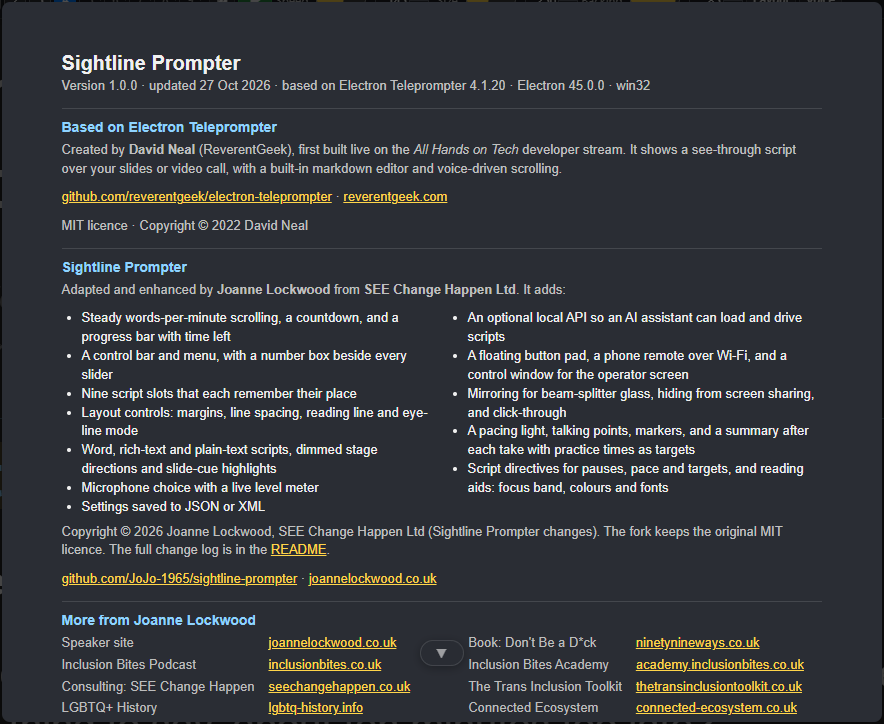
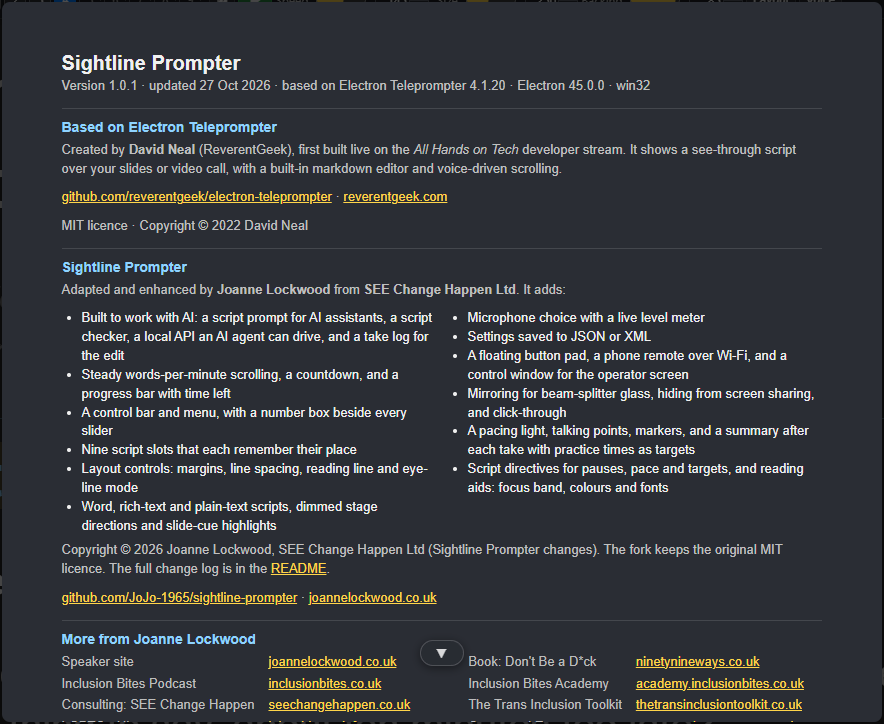
Lead with the AI workflow: Working with AI guide page, readme, feature list, About
Sightline is positioned for content creators and L&D teams recording at a desk
or in a studio: AI writes the script and its directions, can run the prompter
through the local API, and gets the take log for the edit. Roadmap 26, 35 and
36 are described as coming next, not as built.

Claude-Session: https://claude.ai/code/session_01RExBhv5sG83zRt8AwjwG1H

Changed region(s): [[0.0611, 0.4254, 0.8857, 1.0], [0.5192, 0.8812, 0.9163, 1.0], [0.5192, 0.4254, 0.9163, 0.4862]]

diff --git a/src/client/teleprompter.html b/src/client/teleprompter.html
@@ -358,6 +358,10 @@
       </p>
       <ul>
         <li>
+          Built to work with AI: a script prompt for AI assistants, a script
+          checker, a local API an AI agent can drive, and a take log for the edit
+        </li>
+        <li>
           Steady words-per-minute scrolling, a countdown, and a progress bar
           with time left
         </li>
@@ -372,9 +376,6 @@
         </li>
         <li>Microphone choice with a live level meter</li>
         <li>Settings saved to JSON or XML</li>
-        <li>
-          An optional local API so an AI assistant can load and drive scripts
-        </li>
         <li>A floating button pad, a phone remote over Wi-Fi, and a control window for the operator screen</li>
         <li>Mirroring for beam-splitter glass, hiding from screen sharing, and click-through</li>
         <li>A pacing light, talking points, markers, and a summary after each take with practice times as targets</li>

diff --git a/readme.md b/readme.md
@@ -1,29 +1,77 @@
 # Sightline Prompter
 
-A see-through desktop teleprompter for recording to camera, built with [Electron.js](https://www.electronjs.org/).
+**The teleprompter that works with your AI.** A free, open-source, see-through
+desktop teleprompter for content creators and learning and development teams
+who record to camera at a desk or in a studio. Your AI assistant writes the
+script and its directions, Sightline follows your voice through the take, and
+the take log goes back to your AI for the edit. Speech recognition runs on
+your own computer. Windows, macOS and Linux.
+
+**[Download the latest release](https://github.com/JoJo-1965/sightline-prompter/releases/latest)** · [User guide](docs/guide/README.md) · [Working with AI](docs/guide/09-working-with-ai.md) · [Everything it adds](docs/FEATURES.md) · [joannelockwood.co.uk/sightline](https://joannelockwood.co.uk/sightline)
 
 > **About Sightline Prompter.** This is a fork of
 > [reverentgeek/electron-teleprompter](https://github.com/reverentgeek/electron-teleprompter),
 > created by [David Neal](https://reverentgeek.com) and released under the MIT
 > licence. Adapted and enhanced by Joanne Lockwood from SEE Change Happen Ltd.
-> It adds steady words-per-minute scrolling, script
-> slots, a control bar and menu, layout controls, Word and rich-text scripts,
-> settings files and an optional local API for AI assistants. Everything from
-> the original still works. See the [change log](#change-log) for the details,
-> and **Help > About** in the app for credits.
+> Everything from the original still works. See the [change log](#change-log)
+> for the details, and **Help > About** in the app for credits.
+
+## Built around AI
+
+| Step       | What your AI does                                                         | What Sightline does                                                                                        |
+| ---------- | ------------------------------------------------------------------------- | ---------------------------------------------------------------------------------------------------------- |
+| **Write**  | Writes the script, with sections, target times, stops and countdowns      | **Help > Copy the AI Script Prompt** gives it the instructions, and a checker validates the result         |
+| **Record** | Loads the script and runs the prompter through a local API, if you let it | Follows your voice, holds at every `{stop}`, counts down every `{pause: 3s}`, takes "Prompter, …" commands |
+| **Edit**   | Reads the take log and chooses the takes                                  | Logs every take of every section, with retakes, markers and your keeper or scrap rating, as JSON and CSV   |
+
+- **Scripts that direct the prompter.** The [AI Script Prompt](docs/AI-SCRIPT-BRIEF.md)
+  works with ChatGPT, Claude, Gemini or Copilot. The script that comes back has
+  `## sections`, `{target: 1:20}` pacing, `{stop}` before a demo, `{pause: 3s}`
+  for a breath, `{marker}` for the edit and `[notes to you]`, all
+  [documented](docs/SCRIPT-DIRECTIVES.md). Draft in Google Docs, Word or PDF
+  and open it as it is.
+- **An AI that can run the prompter.** Switch on the local API (Settings >
+  Remotes) and an agent on your computer, such as Claude Code, can write a
+  script into a slot, start, pause, jump sections, change speed, drop markers
+  and rate takes. It's off by default, token-protected and closed to web
+  pages.
+- **A take log made for an editing agent.** Each take's start and end, whether
+  it was read through or retaken, its markers and rating, and the take to use
+  for each section.
+- **Private by design.** Voice recognition runs offline on your own computer,
+  so nothing you say is sent anywhere.
+
+The whole workflow is in the guide: [Working with AI](docs/guide/09-working-with-ai.md).
+
+**Coming next** ([roadmap](ROADMAP.md)): word-level timing and an "edit pack"
+an editing agent can assemble a video from; `{listen: off}` and `{prompter: …}`
+so the script can direct the microphone and the prompter; and a recordings
+library that an agent can list and fetch from.
 
 ## Features
 
-- Translucent overlay — see through the script to your presentation or video call
-- Built-in markdown editor with syntax highlighting
-- Voice-driven auto-scroll — speak your script and the prompter follows you. Recognition runs on your own computer (free, offline, private), or online with [Deepgram](https://deepgram.com/) if you prefer
-- Live reload — script automatically reloads when the file is modified externally
-- Adjustable background opacity
-- Font size is persisted across sessions
-- Mirror/flip mode — for physical teleprompter setups with beam splitters
-- Recently opened files — File > Open Recent submenu
-- Auto-loads last opened file on startup
-- Window position and size are persisted across sessions
+- **Follows your voice**, with speech recognition on your own computer (free
+  and offline), or [Deepgram](https://deepgram.com/) if you prefer. The
+  sentence you're about to say is highlighted
+- **"Prompter, …" voice commands:** pause, go, slower, again (for a retake),
+  keeper, scrap that, marker, resync and more
+- **Or a steady pace** in words per minute, with section targets, a pacing
+  light, a take summary and a rehearsal timer
+- **Stops and countdowns** written into the script, and a **take log** for the
+  edit
+- Opens **Markdown, Word, rich text, plain text, PDF and Google Docs links**,
+  with a built-in editor and live reload
+- **Nine script slots**, a control bar and menu, six tabs of settings, a
+  floating button pad, a phone remote, a control window for a second screen,
+  clickers, pedals and game controllers
+- **For real rigs:** mirroring for beam-splitter glass, full screen on a
+  prompter monitor such as the Elgato Prompter, an eye-line mode, hiding from
+  screen sharing and click-through
+- **Reading aids:** a focus band, colour themes, and fonts including Atkinson
+  Hyperlegible and OpenDyslexic
+- A **user guide** with screenshots, built into the app
+
+The full list, side by side with the original, is in [FEATURES.md](docs/FEATURES.md).
 
 ## Usage
 
@@ -153,6 +201,7 @@ Planned features and their order are in [ROADMAP.md](ROADMAP.md).
 
 ### Next release
 
+- **Working with AI**, a new page in the user guide (Help > User Guide): how your AI writes the script and its directions, runs the prompter through the local API, and takes the take log for the edit. The readme, feature list and Help > About now lead with it
 - **Slate and sync mark** (Settings > Scrolling, "Slate at the start of each take"): before each take the screen flashes white and beeps, then shows the section and take number for a second. The take log records when each slate went off (the first is time 0), so every take can be lined up with the recording; no clap needed. It shows when you start scrolling, carry on from a `{stop}`, start voice scrolling, or say "Prompter, again". Choose flash and beep, flash only, or off (the default)
 - Two pauses on one line, such as a countdown and then a `{stop}`, now both count. Before, the second was skipped
 - A take that ends at a `{stop}` now ends where you stopped reading, not when you carried on

diff --git a/docs/FEATURES.md b/docs/FEATURES.md
@@ -8,14 +8,20 @@ mode, and scrolling that followed your voice through Deepgram. Thank you,
 David.
 
 Sightline keeps that heart and rebuilds almost everything around it into a
-full teleprompter for recording to camera, on Windows, macOS and Linux. This
-page lists what's new. The [change log](../readme.md#change-log) has the
+teleprompter that works with your AI, for content creators and learning and
+development teams recording to camera at a desk or in a studio, on Windows,
+macOS and Linux. Your AI writes the script and its directions, Sightline
+follows your voice through the take, and the take log goes back to your AI
+for the edit.
+
+This page lists what's new. The [change log](../readme.md#change-log) has the
 details, and the [user guide](guide/README.md) shows every screen.
 
 **At a glance**
 
 |                     | Electron Teleprompter 4.1.20                                                          | Sightline Prompter 1.0                                                                                                                                         |
 | ------------------- | ------------------------------------------------------------------------------------- | -------------------------------------------------------------------------------------------------------------------------------------------------------------- |
+| AI                  |                                                                                       | **AI writes the script and its directions, can run the prompter, and gets the take log for the edit**                                                                                         |
 | Scrolling           | Follows your voice (Deepgram, with your own key)                                      | Follows your voice **on your own computer**, free and offline, or steady at a set pace                                                                         |
 | Voice control       |                                                                                       | "Prompter, pause", go, slower, again, resync and more                                                                                                          |
 | Script formats      | Markdown and HTML, with a built-in Markdown editor                                    | Adds plain text, Word, rich text, **PDF** and **Google Docs links**                                                                                            |
@@ -25,8 +31,33 @@ details, and the [user guide](guide/README.md) shows every screen.
 | Recording rigs      | Mirror (flip) mode                                                                    | Mirroring in any direction, prompter monitor (Elgato Prompter), eye-line mode, beam-splitter setup, hide from screen capture, click-through                    |
 | Reading aids        | Background opacity and font size                                                      | Sentence highlight, focus band, text edge, colour themes, Atkinson Hyperlegible and OpenDyslexic                                                               |
 | Help                | Readme; recently opened files                                                         | Built-in user guide with screenshots, sample scripts, shortcuts panel                                                                                          |
-| AI                  |                                                                                       | AI script prompt, script checker, optional local API for AI assistants                                                                                         |
 | Installers          | Build from source                                                                     | Windows, macOS (Apple silicon and Intel) and Linux, built on GitHub                                                                                            |
+
+## AI-assisted production
+
+The whole workflow is in the guide:
+[Working with AI](guide/09-working-with-ai.md).
+
+- **Write:** Help > Copy the AI Script Prompt puts instructions for ChatGPT,
+  Claude, Gemini or Copilot on the clipboard. The scripts they write come with
+  sections, target times, stops, countdowns, markers and notes to the speaker
+  ([AI-SCRIPT-BRIEF.md](AI-SCRIPT-BRIEF.md)). Draft in Google Docs, Word or
+  PDF and open it as it is.
+- **Check:** directives Sightline doesn't recognise are marked ⚠ on screen,
+  and the command-line checker (`npm run check-script`) reports unknown
+  directives, bad values and sections without a target, so an AI pipeline can
+  fix a script before you see it.
+- **Record:** an optional local API lets an AI agent on your own computer
+  write a script into a slot, start, pause, jump sections, change speed, drop
+  markers and rate takes as keeper or scrap. Off by default, token-protected
+  and closed to web pages.
+- **Edit:** the take log records every take of every section, with its start
+  and end, retakes, markers and rating, and picks the take to use for each
+  section, as JSON for an editing agent and CSV for a spreadsheet.
+- **Coming next** ([roadmap](../ROADMAP.md)): word-level timing and an edit
+  pack an editing agent can assemble from; `{listen: off}` and
+  `{prompter: …}` so the script can direct the microphone and the prompter;
+  and a recordings library an agent can list and fetch from.
 
 ## Voice
 
@@ -135,15 +166,6 @@ details, and the [user guide](guide/README.md) shows every screen.
 - **Fonts** including Atkinson Hyperlegible, OpenDyslexic and Verdana.
 - Independent text opacity, background opacity and text brightness, margins
   that fade out at the edges, line spacing and alignment.
-
-## AI
-
-- **Help > Copy the AI Script Prompt:** instructions for ChatGPT, Claude or
-  Gemini that produce scripts with sections, targets, stops and countdowns
-  ([AI-SCRIPT-BRIEF.md](AI-SCRIPT-BRIEF.md)).
-- **Optional local API** so an AI assistant or a script on your own computer
-  can load scripts and run the prompter. Off by default, token-protected, and
-  closed to web pages.
 
 ## Help and installers
 

diff --git a/docs/guide/09-working-with-ai.md b/docs/guide/09-working-with-ai.md
@@ -1,0 +1,110 @@
+# Working with AI
+
+Sightline is built for people who make video with an AI assistant at their
+side: content creators, and learning and development teams recording courses,
+explainers and updates at a desk or in a studio. Your AI can write the script,
+direct the prompter, run it while you record, and pick up the take log
+afterwards for the edit.
+
+| Step       | What the AI does                                                   | What Sightline does                                                                   |
+| ---------- | ------------------------------------------------------------------ | ------------------------------------------------------------------------------------- |
+| **Write**  | Writes the script, with sections, target times, stops and countdowns | Gives the AI its instructions (the AI Script Prompt) and checks what comes back       |
+| **Record** | Loads the script and runs the prompter, if you let it             | Follows your voice, holds at every stop, counts down every pause, logs every take     |
+| **Edit**   | Reads the take log and chooses the takes                           | Saves each take's start and end, retakes, markers and your keeper or scrap rating    |
+
+## 1. Write: scripts with directions in them
+
+Choose **Help > Copy the AI Script Prompt** (or ☰ > Help). Paste it into
+ChatGPT, Claude, Gemini or Copilot, then describe the video: the audience,
+the length, the points to land. The script that comes back is ready for
+Sightline:
+
+- `## Headings` become sections you can jump between and retake one by one.
+- `{target: 1:20}` and `{wpm: 140}` set the pace section by section.
+- `{stop}` holds the prompter until you say "Prompter, go"; `{pause: 3s}`
+  counts down and carries on. Use them before a demo, a slide change or a
+  change of shot.
+- `{marker}` drops a marker in the take log, for the edit.
+- `[Notes in square brackets]` are directions to you, dimmed on screen.
+
+The same instructions are in [AI-SCRIPT-BRIEF.md](../AI-SCRIPT-BRIEF.md), and
+every directive is in [SCRIPT-DIRECTIVES.md](../SCRIPT-DIRECTIVES.md).
+
+If your team drafts in Google Docs, open the doc straight from **File > Open a
+Google Doc**; Sightline fetches the latest version each time. Word and PDF
+files open too.
+
+**Checking the script.** Sightline marks any directive it doesn't recognise
+with ⚠. In an AI pipeline, run the checker from the source folder:
+
+```
+npm run check-script -- my-script.md
+```
+
+It reports unknown directives, bad values, unmatched braces and sections
+without a target, and exits with 1 on errors, so an agent can fix the script
+before you see it.
+
+## 2. Record: let the AI run the prompter
+
+On **Settings > Remotes**, tick **Let an AI assistant or script on this
+computer load scripts and control the teleprompter**. Sightline then listens
+on `127.0.0.1` (this computer only) and writes its address and a secret token
+to `remote-control.json` in its settings folder:
+
+- Windows: `%APPDATA%\Sightline Prompter`
+- Mac: `~/Library/Application Support/Sightline Prompter`
+- Linux: `~/.config/Sightline Prompter`
+
+An AI agent that can run commands on your computer, such as Claude Code, reads
+that file and sends each request with the header
+`Authorization: Bearer <token>`. It can:
+
+| Request           | What it does                                                         |
+| ----------------- | -------------------------------------------------------------------- |
+| `GET /status`     | The current script, slot, speed, progress and slots                  |
+| `POST /load-text` | Save a script it wrote and open it `{ text, name, slot }`            |
+| `POST /open`      | Open a script file `{ path, slot }`                                  |
+| `POST /command`   | `play`, `pause`, `next-section`, `go-to-section`, `set-wpm`, `marker`, `keeper`, `scrap` and more |
+| `POST /slot`      | Switch to a slot `{ slot }`                                          |
+| `POST /settings`  | Change display settings                                              |
+
+It's off by default. Requests from web pages are refused, the API can't
+switch itself on, and **New token** locks out anything that had the old one.
+The full list is in the [readme](../../readme.md).
+
+While you record, your voice does the rest: "Prompter, again" for a retake,
+"Prompter, keeper" or "Prompter, scrap that" to rate a take, "Prompter,
+marker" for a moment to find later. See
+[Scrolling and voice](03-scrolling-and-voice.md).
+
+## 3. Edit: hand the take log to your AI
+
+Sightline logs every take of every section as you record: when it started
+and ended, whether you read it to the end or went back for a retake, its
+markers and its rating. The log picks the take to use for each section (your
+last keeper, or else your last complete take).
+
+**File > Export Take Log** saves it as JSON, for an AI editor or edit tool,
+and CSV, for a spreadsheet. **File > Show Take Logs Folder** shows where the
+logs are kept, one per script per day. The columns are described in
+[Recording a take](05-recording-a-take.md#the-take-log).
+
+Give the JSON to your editing assistant with the recording and ask it to cut
+the chosen take of each section together, in script order. With the
+[slate](05-recording-a-take.md#the-slate) turned on, every take's times line
+up with the recording from the first beep or flash.
+
+## Coming next
+
+The [roadmap](../../ROADMAP.md) takes this further, in this order:
+
+- **Word-level timing and an edit pack** (26): when each word was spoken, a
+  transcript per take, edit marks and captions, in one folder an editing
+  agent can assemble from.
+- **Script-controlled listening** (35): `{listen: off}` before an ad-lib or a
+  demo turns the microphone off, `{listen: on}` turns it back on, and
+  `{prompter: …}` lets the script give the prompter a command.
+- **A recordings library with agent access** (36): save, rename and delete
+  recording sessions, and let an agent list them and fetch an edit pack
+  through the same local API.

diff --git a/docs/guide/README.md b/docs/guide/README.md
@@ -1,8 +1,14 @@
 # Sightline Prompter user guide
 
-Sightline Prompter is a see-through teleprompter for recording to camera. The
-script floats over your screen, close to the webcam, and scrolls at a steady
-pace or follows your voice.
+Sightline Prompter is a see-through teleprompter for recording to camera,
+built to work with AI. It's made for content creators and learning and
+development teams recording at a desk or in a studio: your AI assistant
+writes the script and its directions, Sightline follows your voice through
+the take, and the take log goes back to your AI for the edit. See
+[Working with AI](09-working-with-ai.md).
+
+The script floats over your screen, close to the webcam, and scrolls at a
+steady pace or follows your voice.
 
 ![The prompter with the control bar, mid-take](images/running.png)
 
@@ -16,6 +22,7 @@ pace or follows your voice.
 6. [Remotes and second screens](06-remotes-and-screens.md): the pad, control window, phone remote, prompter monitor
 7. [Settings](07-settings.md): every tab explained
 8. [Shortcuts and troubleshooting](08-shortcuts-and-troubleshooting.md)
+9. [Working with AI](09-working-with-ai.md): AI-written scripts, letting an AI run the prompter, the take log for the edit, and what's coming next
 
 Inside the app, open this guide from **Help > User Guide** or the **?** menu.
 **F1** shows the keyboard shortcuts.

diff --git a/docs/guide/02-scripts.md b/docs/guide/02-scripts.md
@@ -83,4 +83,5 @@ Choose **Help > Copy the AI Script Prompt** (or ☰ > Help). It puts a set of
 instructions on the clipboard: paste it into ChatGPT, Claude or Gemini, then
 describe the script you want. The script that comes back has sections, target
 times, stops and countdowns ready for Sightline. The same instructions are in
-[AI-SCRIPT-BRIEF.md](../AI-SCRIPT-BRIEF.md).
+[AI-SCRIPT-BRIEF.md](../AI-SCRIPT-BRIEF.md). The whole AI workflow, from
+script to edit, is in [Working with AI](09-working-with-ai.md).

diff --git a/docs/guide/06-remotes-and-screens.md b/docs/guide/06-remotes-and-screens.md
@@ -48,7 +48,8 @@ networks.
 
 Also on **Settings > Remotes**, you can let an AI assistant or a script on
 this computer load scripts and control the prompter. It's off by default, and
-only programs on this computer that have the token can connect.
+only programs on this computer that have the token can connect. What an AI
+can do with it is in [Working with AI](09-working-with-ai.md#2-record-let-the-ai-run-the-prompter).
 
 ## Choosing the prompter monitor
 
